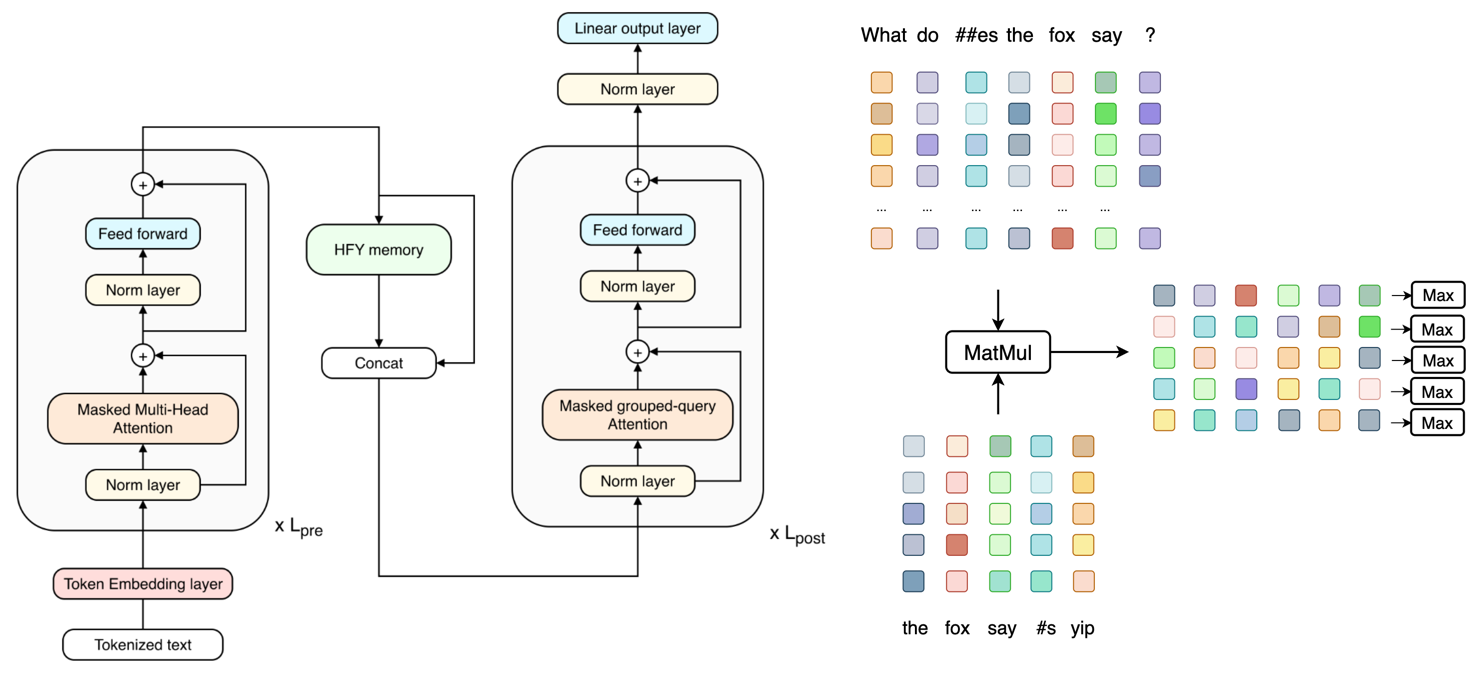
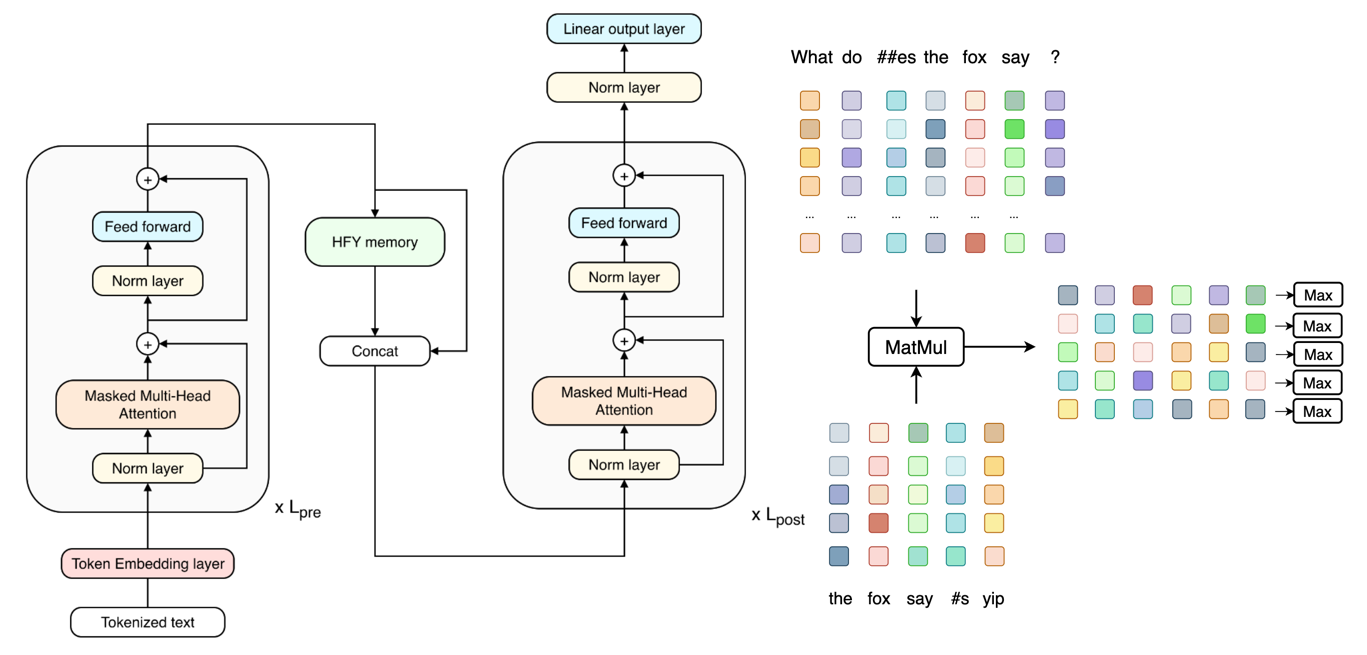
fix typos

diff --git a/content/posts/20261111-hfy-late-interaction.md b/content/posts/20261111-hfy-late-interaction.md
@@ -65,7 +65,7 @@ Modern Hopfield Networks are particularly interesting because their standard ret
 equivalent to the softmax attention mechanism used in Transformers, under an appropriate parameterization. At each step
 \(i\), the hopfield network calculate similarities between the \(q_{i}\) and each memory:
 
-\[s_i = \beta m_j^T q_{i}, \qquad \forall j \in m \]
+\[s_i = \beta m_j^T q_{i}, \qquad \forall m_j \in M \]
 
 Here, \(\beta\) is an inverse-temperature parameter that controls the sharpness of retrieval. Then, the
 weights are calculated using an activation function like softmax:
@@ -212,19 +212,56 @@ compressed embedding-based memories and conventional text-based retrieval-augmen
 
 ### 2.1. Late Interaction Associative Memory Integration
 
-Our proposed architecture integrates a Late Interaction HFY memory module into an intermediate
+The proposed architecture integrates a Late Interaction HFY memory module into an intermediate
 layer of a decoder-only LLM, as illustrated in Figure 2.
 
-First, a memory bank is built by extracting the hidden states of stored sentences after \(L_{\mathrm{pre}}\)
+First, a memory bank is built by extracting the hidden states of stored sentences \(\mathbf{S} = \{s_0, s_1, ..., s_
+{S} \, | \, s_i = (t_1, t_2, ..., t_{T_i}) \}\) after \(L_{\mathrm{pre}}\)
 Transformer layers. Rather than applying sequence pooling, the complete token-level representations is preserved:
 
-\[ M_j=H^{(L_{\mathrm{pre}})}(x_j) \in\mathbb{R}^{T_j\times d} \]
+\[ m_j=H^{(L_{\mathrm{pre}})}(s_j), \qquad m_j \in\mathbb{R}^{T_j\times d} \]
 
-Given an input query, we can extract its hidden states from the same layer, obtaining \(Q\in\mathbb{R}^{T_q\times d}\).
-These representations are used to retrieve associated memories through an iterative update that combines
-late-interaction similarity with HFY-based sparse weighting:
+Since the sequences have variable lengths, the resulting hidden states are zero-padded to the maximum sequence length,
+yielding a memory tensor \(\mathbf{M}\in\mathbb{R}^{S\times T_{\max}\times d}\). A corresponding binary attention mask
+identifies valid token positions, ensuring that padded representations are excluded from the late-interaction similarity
+computation.
 
-\[Q_i^{(k+1)} = \sum_{j=1}^{N} w_j^{(k)} \sum_{t=1}^{T_j} A_{j,i,t}^{(k)}M_{j,t} \]
+Given an input query, we can extract its hidden states from the \(L_{\mathrm{pre}}\) layers, obtaining
+\(Q\in\mathbb{R}^{T_q\times d}\).
+The proposed associative retrieval mechanism then iteratively updates this representations through two complementary
+sparse weighting operations: sentence-level memory selection and token-level alignment.
+
+First, a late-interaction similarity is computed between each query token and every valid token of each stored memory.
+Using cosine similarity, the token-level similarity tensor at iteration \(k\) is defined as:
+\[ S_{j,i,t}^{(k)} = \operatorname{cos}\left(Q_i^{(k)},M_{j,t}\right). \]
+
+Following the MaxSim late-interaction formulation, a relevance score is computed for each stored memory by selecting
+the maximum token similarity for each query token and averaging the resulting scores:
+
+\[ s_j^{(k)}= \frac{1}{T_q} \sum_{i=1}^{T_q} \max_{t\in\{1,\ldots,T_j\}} S_{j,i,t}^{(k)}. \]
+
+These relevance scores are
+transformed into sparse memory-selection weights using an HFY-compatible entmax mapping:
+
+\[ \mathbf{w}^{(k)}= \operatorname{entmax}_{\alpha_{\mathrm{sent}}} (\beta_{\mathrm{sent}}\mathbf{s}^{(k)}). \]
+
+Here, \(\alpha_{\mathrm{sent}}\) controls the sparsity of sentence-level selection, while \(\beta_{\mathrm{sent}}>0\)
+is an inverse-temperature parameter that scales the similarity scores and influences the concentration of the resulting
+distribution.
+
+In parallel with sentence-level memory selection, a second HFY-compatible entmax operation computes sparse alignments
+between each query token and the tokens within each stored memory:
+\[ A_{j,i,:}^{(k)} = \operatorname{entmax}_{\alpha_{\mathrm{tok}}} \left(\beta_{\mathrm{tok}} S_{j,i,:}^{(k)} \right).\]
+
+In this case, \(\alpha_{\mathrm{tok}}\) controls the sparsity of token-level alignment, while
+\(\beta_{\mathrm{tok}}>0\) determines the concentration of the alignment distribution. Unlike sentence-level selection,
+which determines the contribution of each stored sequence, token-level alignment identifies the most relevant token
+representations within each memory, preserving fine-grained semantic correspondences.
+
+Finally, both weighting mechanisms are combined to reconstruct an updated query representation as a weighted aggregation
+of the original, unnormalized memory hidden states:
+
+\[  Q_i^{(k+1)} = \sum_{j=1}^{N} w_j^{(k)} \sum_{t=1}^{T_j} A_{j,i,t}^{(k)}M_{j,t} \]
 
 where \(w_j^{(k)}\) denotes the \(\alpha\)-entmax weight assigned to memory \(j\) based on its late-interaction
 similarity to the current query, and \(A_{j,i,t}^{(k)}\) represents the token-level \(\alpha\)-entmax alignment between
@@ -234,11 +271,15 @@ After \(K\) associative iterations, the retrieved representation \(R=Q^{(K)}\in\
 query's sequence length and the model's hidden dimension. Finally, rather than reconstructing the retrieved memories as
 text, we can prepend the associated representation directly to the query hidden states:
 
-\[ H=[R;Q]\in\mathbb{R}^{2T_q\times d} \]
+\[ H=[R;Q], \qquad H \in\mathbb{R}^{2T_q\times d} \]
 
 The concatenated representations are then processed by the remaining \(L_{\mathrm{post}}\) Transformer layers, allowing
 the model to incorporate retrieved information directly into its internal computation without converting the memories
-back into natural language.
+back into natural language. The resulting hidden states are projected into vocabulary logits through the final
+normalisation and language modelling head, from which the next token is selected using greedy decoding. The current
+methodology only retrieves the associative memory once, before autoregressive generation begins. However, it reinjects
+that same retrieved memory at every decoding step.
+
 
 ## 3. Results and discussion
 
@@ -525,7 +566,9 @@ The architecture is particularly interesting because memory sentences and the qu
 independently through the first \(L_{\mathrm{pre}}\) Transformer layers. No cross-sequence attention is computed between
 them during this initial encoding. Nevertheless, after the retrieved representations are prepended to the query hidden
 states, the remaining \(L_{\mathrm{post}}\) layers can establish contextual interactions between both sequences and use
-this information during generation.
+this information during generation. Investigating iterative associative memory retrieval could be an interesting
+research direction to be considered, as partially generated responses could provide additional context to improve
+memory retrieval and memory-query-answer cross-attention.
 
 However, top-1 memory injection shows how a raw hidden state with the information cannot let the model answer correctly.
 This demonstrates that is the **result of query and associated memories** what gives **enough information** to the
